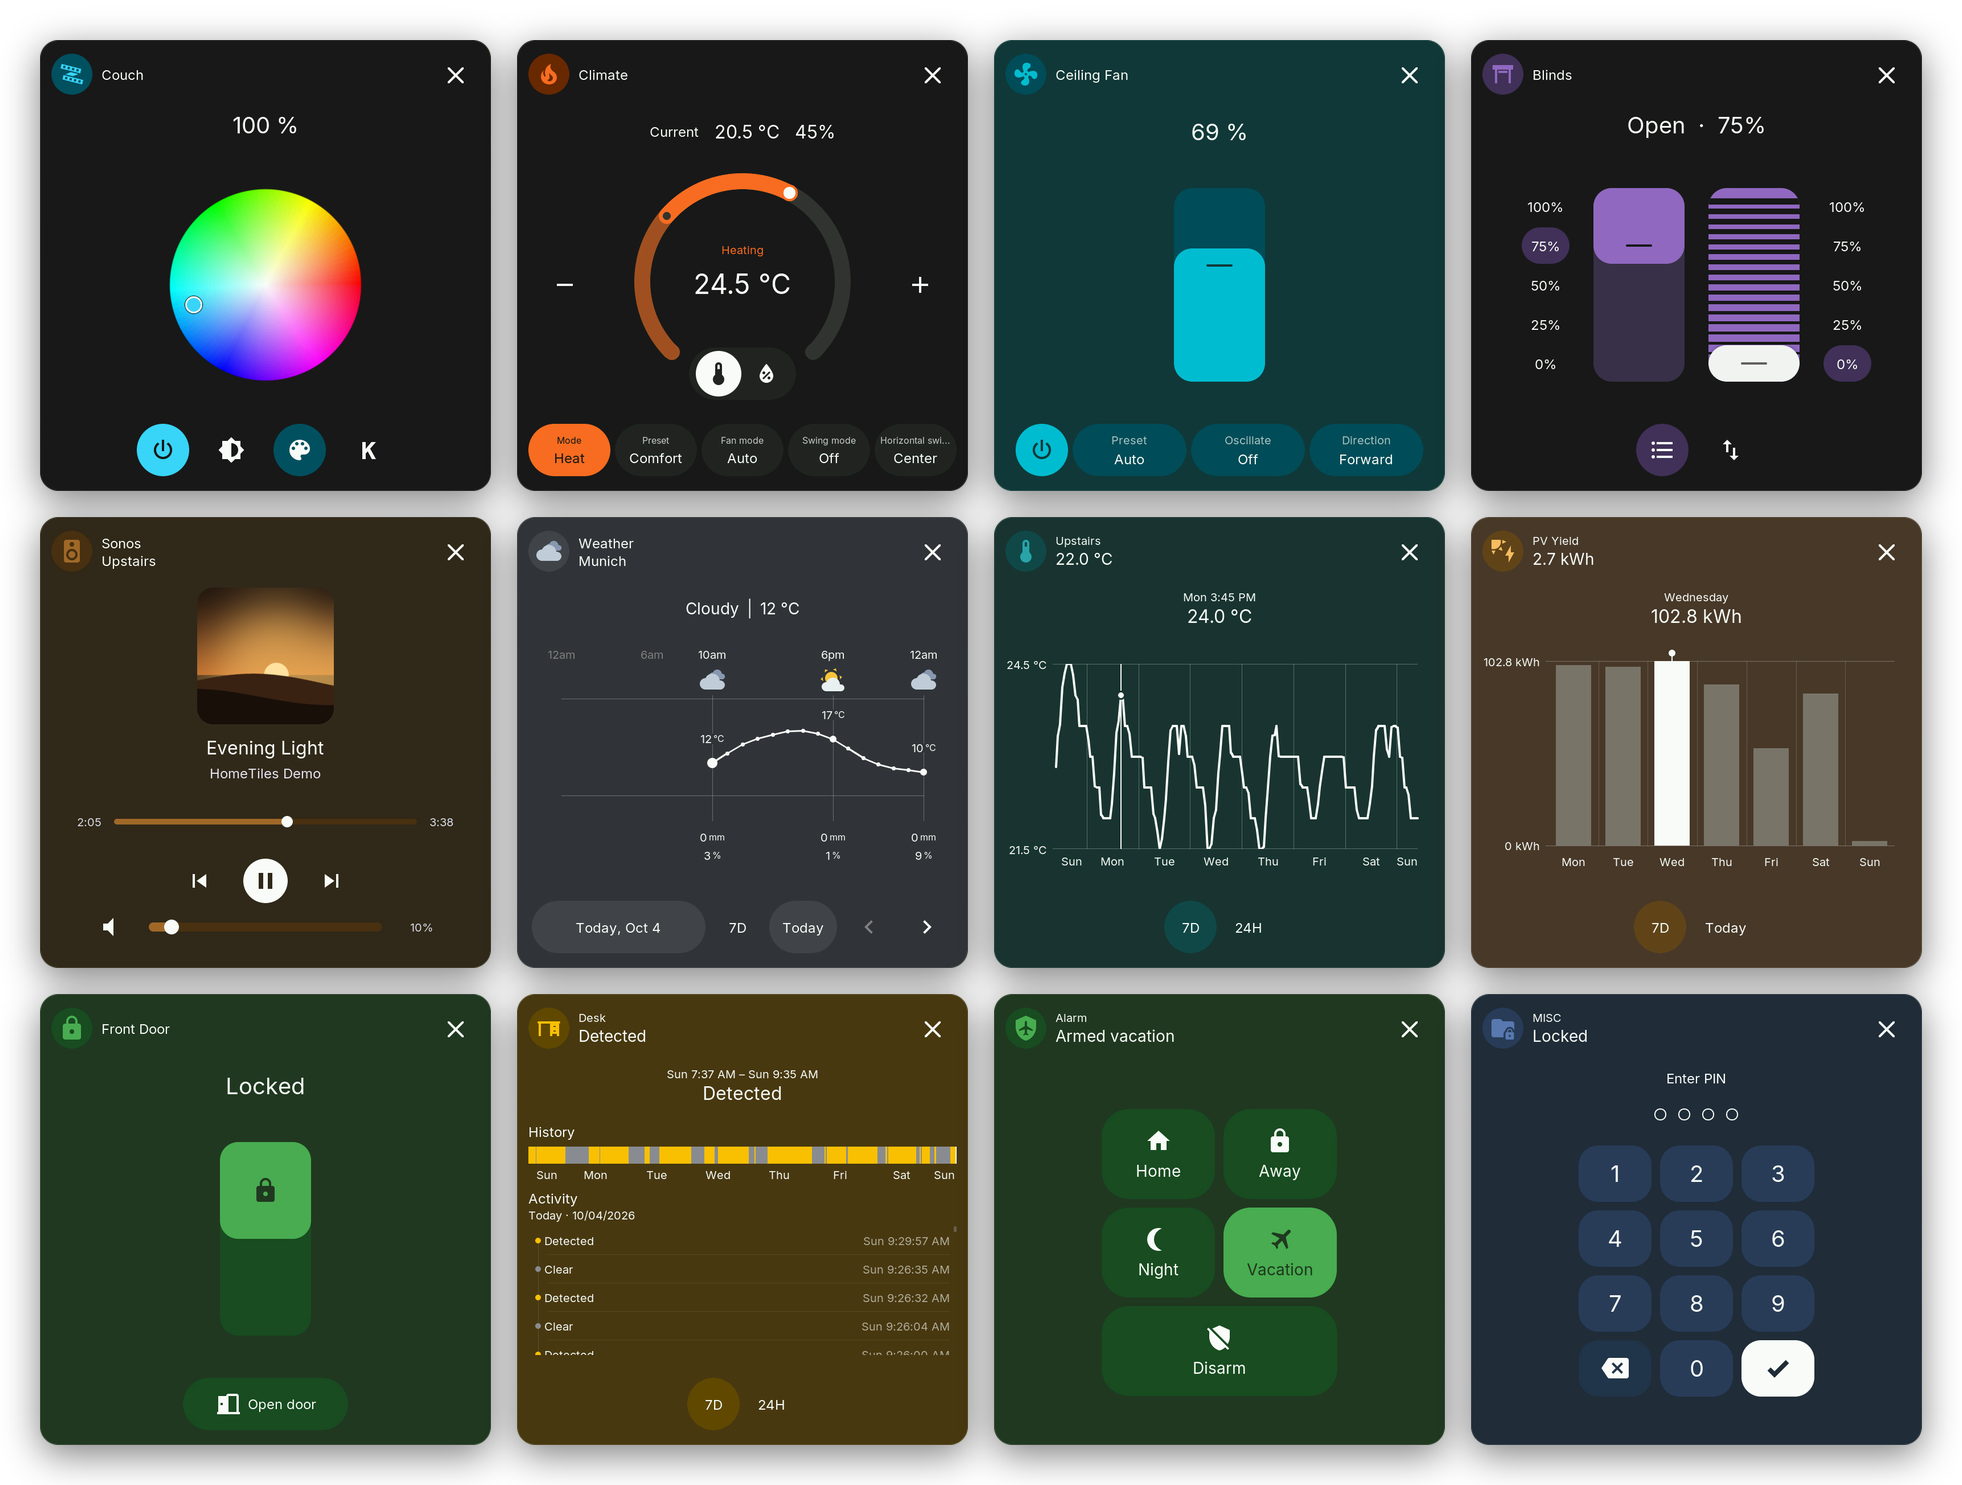
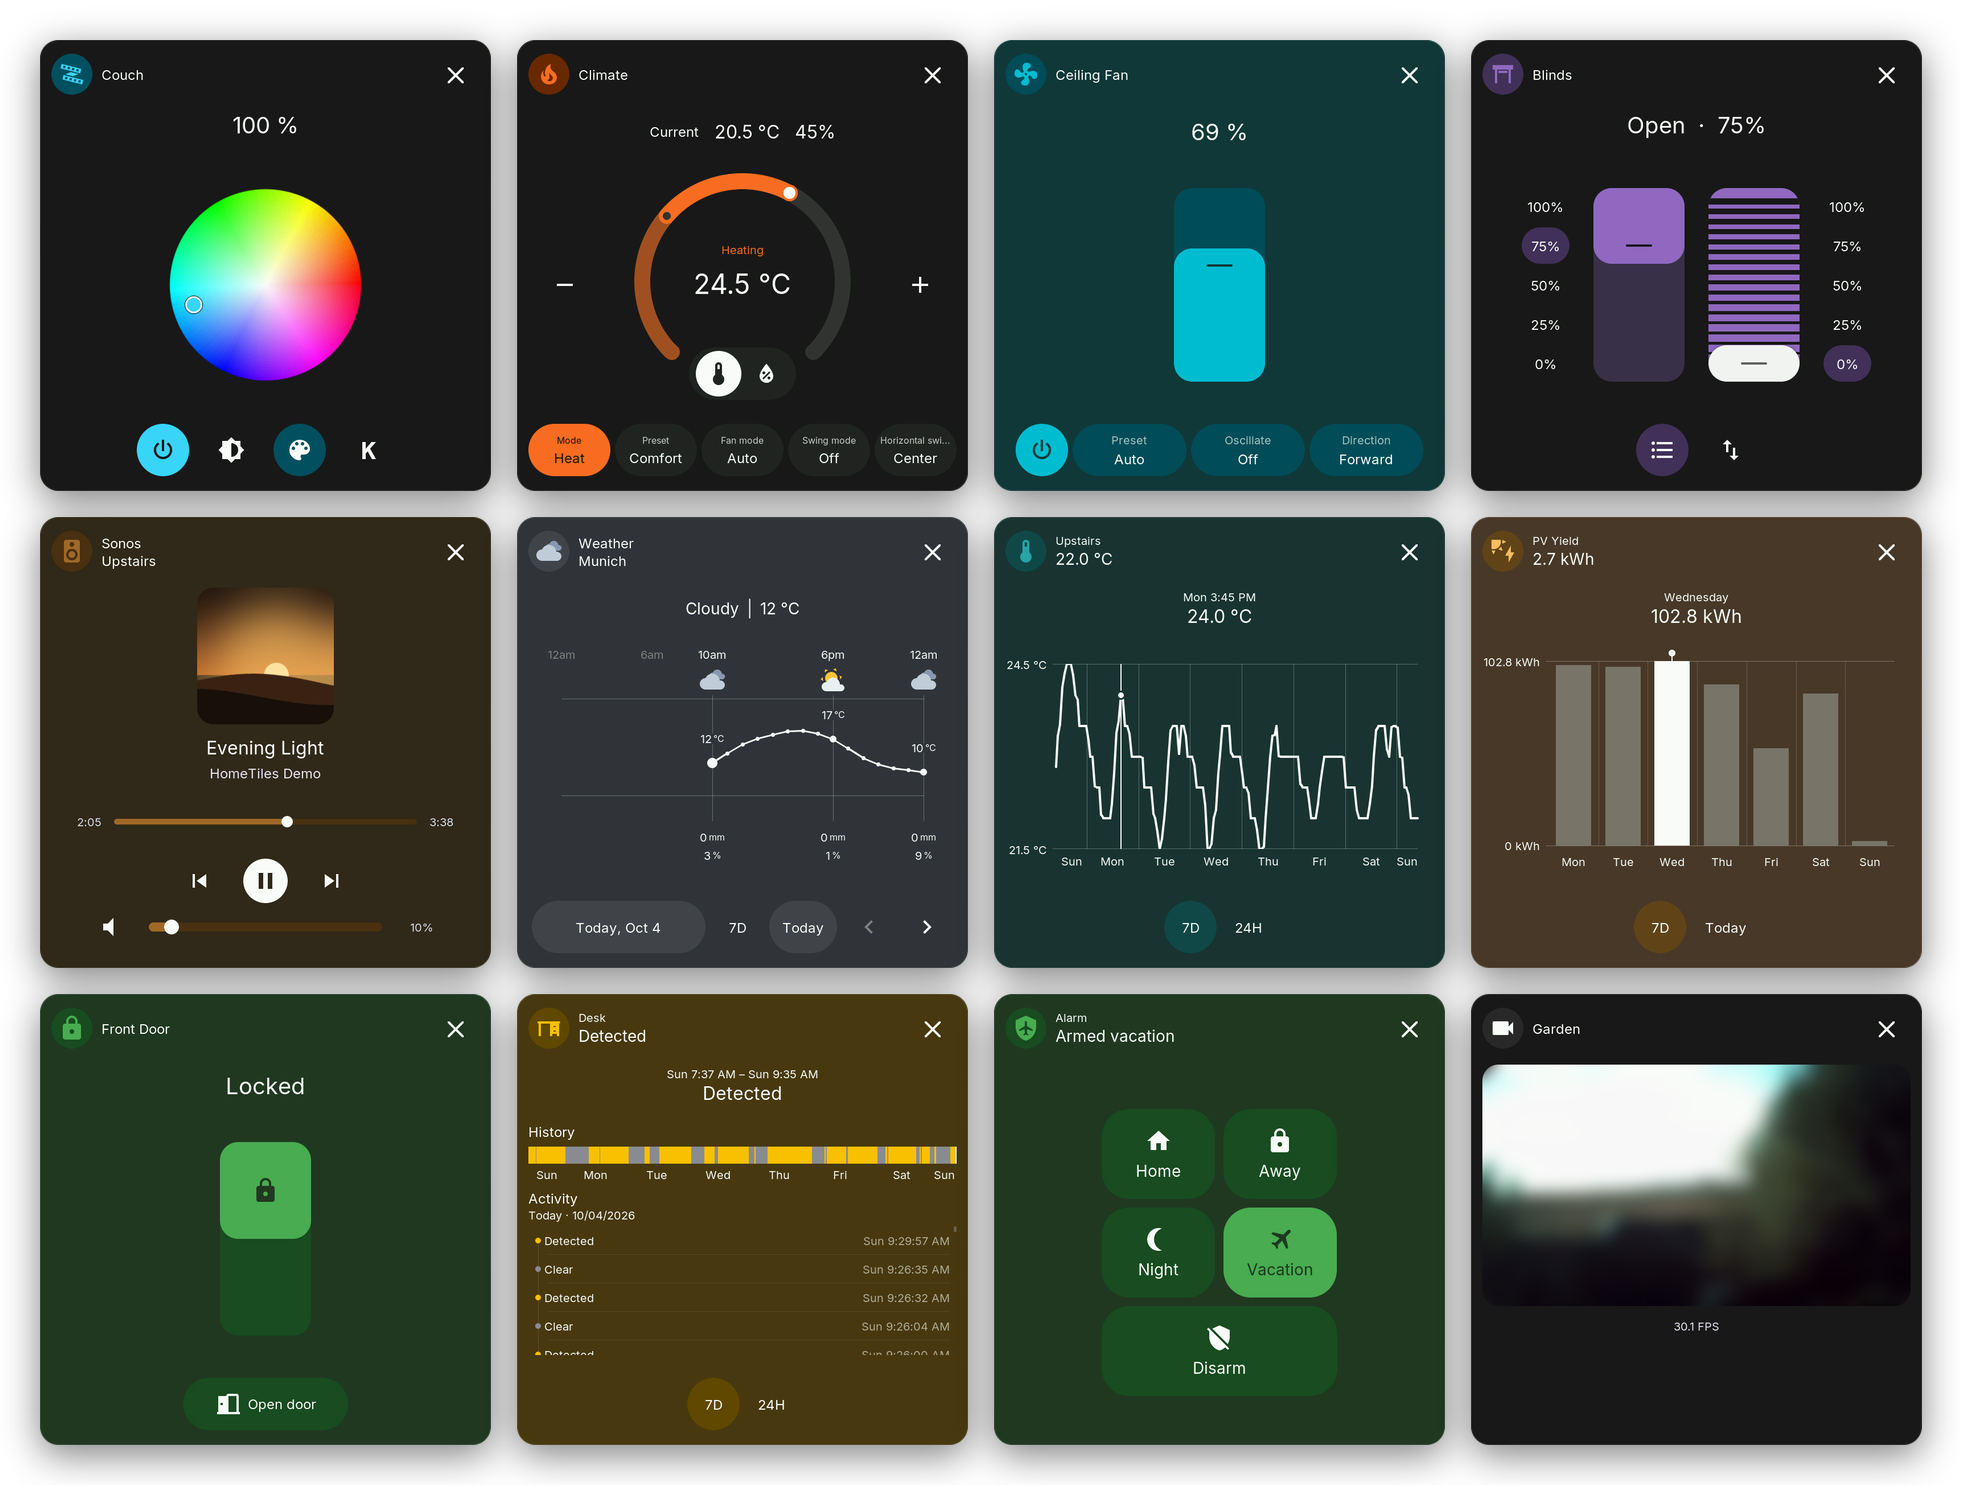
Show the camera popup in the README popup overview

Changed region(s): [[0.7462, 0.6505, 0.9949, 0.9912]]

diff --git a/docs/index.md b/docs/index.md
@@ -31,7 +31,7 @@ HomeTiles is free, open-source firmware that turns a supported touch display int
 - **Camera:** live video on ESP32-P4 displays; supported displays share their built-in camera with Home Assistant.
 
 <figure class="ht-screenshot">
-<img src="images/readme-popups-12.png" alt="Popups for lights, climate, fan, cover, media, weather, sensor history, energy, lock, binary sensor, alarm panel and PIN" width="1962" height="1485" loading="lazy">
+<img src="images/readme-popups-12.png" alt="Popups for lights, climate, fan, cover, media, weather, sensor history, energy, lock, binary sensor, alarm panel and camera" width="1962" height="1485" loading="lazy">
 <figcaption>Popups</figcaption>
 </figure>
 

diff --git a/README.md b/README.md
@@ -23,7 +23,7 @@ Every tile opens a popup with its controls and history.
 
 ### Popups
 
-<img src="docs/images/readme-popups-12.png" alt="Popups for lights, climate, fan, cover, media, weather, sensor history, energy, lock, binary sensor, alarm panel and PIN" width="100%">
+<img src="docs/images/readme-popups-12.png" alt="Popups for lights, climate, fan, cover, media, weather, sensor history, energy, lock, binary sensor, alarm panel and camera" width="100%">
 
 ### Tiles
 
